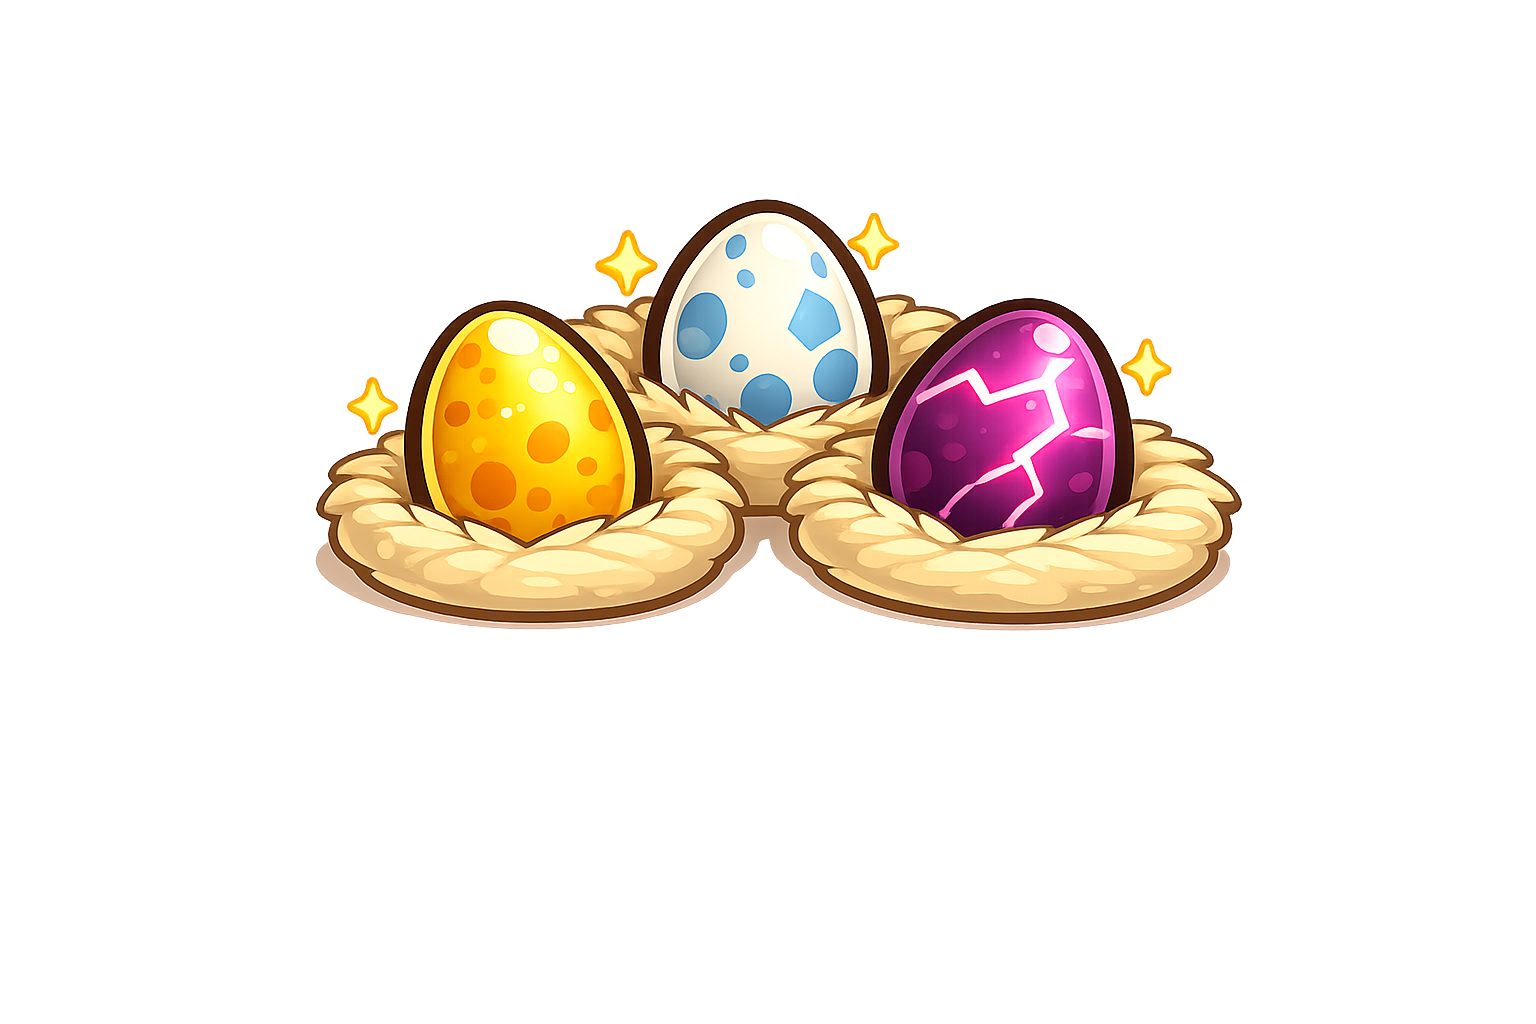
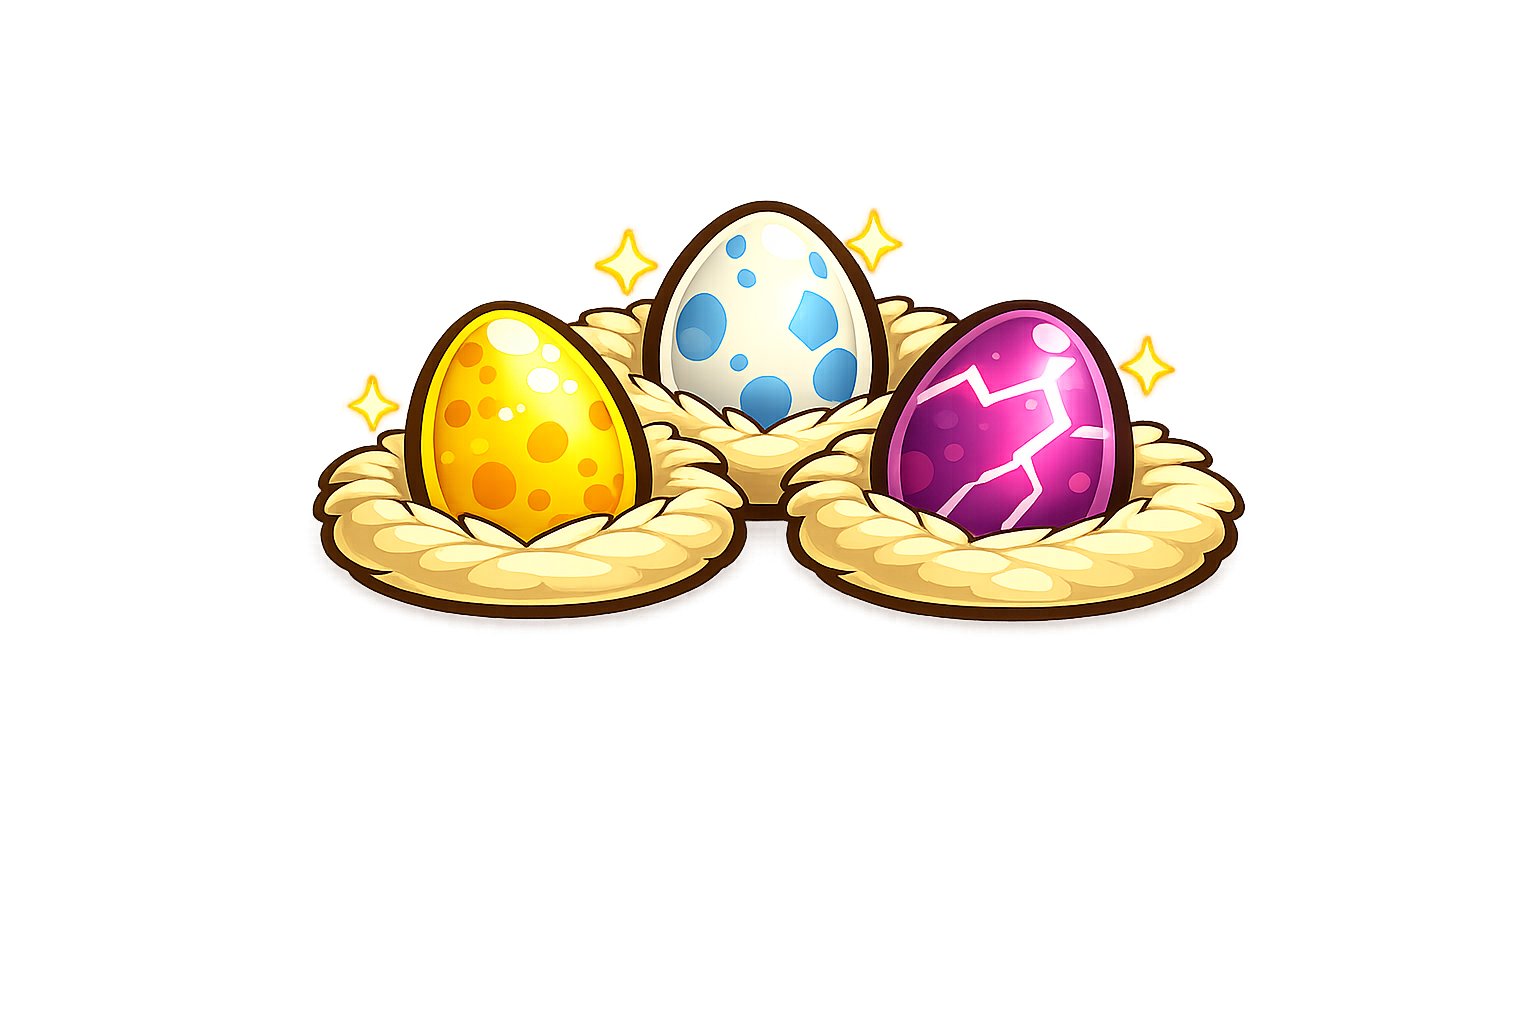
Polish shop/incubation UI, fix egg quality, rename all 17 eggs
Shop:
- Move refresh timer above Refresh button with proper spacing
- Add hint text below tabs for both Pets and Eggs tabs
- Increase egg card images by 20% (72→86px shop, 58→70px popup)

Incubation:
- Increase egg images in nest slots by 12% (120→135px)
- Move hint text from bottom to below header (matching shop layout)
- Fix formatTime showing hardcoded :00 seconds for hour+ durations
- Replace incubation button icon on main screen

Daily Bonus:
- Move hint text between progress bar and card grid
- Move timer above Claim button with proper spacing

Egg quality:
- Pre-downscale all 17 egg textures to 170px (egg_N_sm) in BootScene
  for crisp rendering in shop, nests, popup, progression, level-up
- Keep original 1024px (egg_N) for roll and hatch animations at 296px

Egg names (all 17 tiers renamed):
- 1-5: White, Green, Blue, Red, Purple (by egg color)
- 6-11: Frosty, Forest, Dragon, Sandy, Pharaoh, Sheriff (by location)
- 12-17: Pirate, Ice, Fire, Space, Lunar, Toxic (by theme)

Changed region(s): [[0.1875, 0.1875, 0.8125, 0.625]]

diff --git a/src/data/locales/ru.ts b/src/data/locales/ru.ts
@@ -66,23 +66,23 @@ export const ru: Record<string, string> = {
     'all_pets': 'Все питомцы',
 
     // Egg Tiers
-    'egg_tier_1': 'Луговое яйцо',
-    'egg_tier_2': 'Пятнистое яйцо',
-    'egg_tier_3': 'Морозное яйцо',
-    'egg_tier_4': 'Пламенное яйцо',
-    'egg_tier_5': 'Золотое яйцо',
-    'egg_tier_6': 'Нефритовое яйцо',
-    'egg_tier_7': 'Сапфировое яйцо',
-    'egg_tier_8': 'Рубиновое яйцо',
-    'egg_tier_9': 'Янтарное яйцо',
-    'egg_tier_10': 'Сияющее яйцо',
-    'egg_tier_11': 'Вулканическое яйцо',
-    'egg_tier_12': 'Тайное яйцо',
-    'egg_tier_13': 'Призрачное яйцо',
-    'egg_tier_14': 'Имперское яйцо',
-    'egg_tier_15': 'Туманное яйцо',
-    'egg_tier_16': 'Звёздное яйцо',
-    'egg_tier_17': 'Небесное яйцо',
+    'egg_tier_1': 'Белое яйцо',
+    'egg_tier_2': 'Зелёное яйцо',
+    'egg_tier_3': 'Синее яйцо',
+    'egg_tier_4': 'Красное яйцо',
+    'egg_tier_5': 'Фиолетовое яйцо',
+    'egg_tier_6': 'Морозное яйцо',
+    'egg_tier_7': 'Лесное яйцо',
+    'egg_tier_8': 'Яйцо дракона',
+    'egg_tier_9': 'Песчаное яйцо',
+    'egg_tier_10': 'Яйцо фараона',
+    'egg_tier_11': 'Яйцо шерифа',
+    'egg_tier_12': 'Пиратское яйцо',
+    'egg_tier_13': 'Ледяное яйцо',
+    'egg_tier_14': 'Огненное яйцо',
+    'egg_tier_15': 'Космическое яйцо',
+    'egg_tier_16': 'Лунное яйцо',
+    'egg_tier_17': 'Ядовитое яйцо',
 
     // Backgrounds
     'bg_meadow': 'Луг',
@@ -215,6 +215,7 @@ export const ru: Record<string, string> = {
     'nests_no_eggs': 'Нет яиц! Загляни в магазин.',
     'nests_buy_eggs': 'Купить яйца',
     'nests_hint': 'Инкубируй яйца, чтобы получить редких питомцев!',
+    'shop_pets_hint': 'В Магазине можно купить питомца, которого у вас точно нет!',
     'shop_eggs_hint': 'Яйца для использования в Инкубации',
 
     // Buff descriptions

diff --git a/src/scenes/ShopScene.ts b/src/scenes/ShopScene.ts
@@ -30,7 +30,7 @@ export class ShopScene extends Scene {
     private petsTabBtn!: Button;
     private eggsTabBtn!: Button;
     private eggTabResult: EggTabResult | null = null;
-    private eggsHint!: GameObjects.Text;
+    private hintText!: GameObjects.Text;
 
     constructor() { super('ShopScene'); }
 
@@ -49,9 +49,9 @@ export class ShopScene extends Scene {
         }).setOrigin(0.5).setVisible(false);
         this.refreshBtn = new Button(this, GAME_WIDTH / 2, GAME_HEIGHT - 37, 222, 52,
             `\u25B6 ${t('shop_refresh')}`, 0x7b42c9, () => this.onRefresh());
-        this.eggsHint = this.add.text(GAME_WIDTH / 2, GAME_HEIGHT - 25, t('shop_eggs_hint'), {
+        this.hintText = this.add.text(GAME_WIDTH / 2, TIMER_Y, '', {
             fontFamily: UI.FONT_BODY, fontSize: '14px', color: '#666688',
-        }).setOrigin(0.5).setVisible(false);
+        }).setOrigin(0.5);
         this.switchTab(this.activeTab);
     }
 
@@ -88,8 +88,8 @@ export class ShopScene extends Scene {
     }
 
     private createTimer(): void {
-        this.timerText = this.add.text(GAME_WIDTH / 2, TIMER_Y, '', {
-            fontFamily: UI.FONT_BODY, fontSize: '16px', color: '#aaaaaa',
+        this.timerText = this.add.text(GAME_WIDTH / 2, GAME_HEIGHT - 80, '', {
+            fontFamily: UI.FONT_BODY, fontSize: '14px', color: '#aaaaaa',
         }).setOrigin(0.5);
         this.updateTimerText();
     }
@@ -115,7 +115,7 @@ export class ShopScene extends Scene {
         const showPets = tab === 'pets';
         this.timerText.setVisible(showPets);
         this.refreshBtn.setVisible(showPets);
-        this.eggsHint.setVisible(!showPets);
+        this.hintText.setText(showPets ? t('shop_pets_hint') : t('shop_eggs_hint'));
         this.emptyText.setVisible(false);
 
         this.cardsContainer.removeAll(true);

diff --git a/src/data/locales/en.ts b/src/data/locales/en.ts
@@ -66,23 +66,23 @@ export const en: Record<string, string> = {
     'all_pets': 'All Pets',
 
     // Egg Tiers
-    'egg_tier_1': 'Meadow Egg',
-    'egg_tier_2': 'Spotted Egg',
-    'egg_tier_3': 'Frosted Egg',
-    'egg_tier_4': 'Ember Egg',
-    'egg_tier_5': 'Golden Egg',
-    'egg_tier_6': 'Jade Egg',
-    'egg_tier_7': 'Sapphire Egg',
-    'egg_tier_8': 'Ruby Egg',
-    'egg_tier_9': 'Amber Egg',
-    'egg_tier_10': 'Radiant Egg',
-    'egg_tier_11': 'Volcanic Egg',
-    'egg_tier_12': 'Arcane Egg',
-    'egg_tier_13': 'Phantom Egg',
-    'egg_tier_14': 'Imperial Egg',
-    'egg_tier_15': 'Nebula Egg',
-    'egg_tier_16': 'Stellar Egg',
-    'egg_tier_17': 'Celestial Egg',
+    'egg_tier_1': 'White Egg',
+    'egg_tier_2': 'Green Egg',
+    'egg_tier_3': 'Blue Egg',
+    'egg_tier_4': 'Red Egg',
+    'egg_tier_5': 'Purple Egg',
+    'egg_tier_6': 'Frosty Egg',
+    'egg_tier_7': 'Forest Egg',
+    'egg_tier_8': 'Dragon Egg',
+    'egg_tier_9': 'Sandy Egg',
+    'egg_tier_10': 'Pharaoh Egg',
+    'egg_tier_11': 'Sheriff Egg',
+    'egg_tier_12': 'Pirate Egg',
+    'egg_tier_13': 'Ice Egg',
+    'egg_tier_14': 'Fire Egg',
+    'egg_tier_15': 'Space Egg',
+    'egg_tier_16': 'Lunar Egg',
+    'egg_tier_17': 'Toxic Egg',
 
     // Backgrounds
     'bg_meadow': 'Meadow',
@@ -215,6 +215,7 @@ export const en: Record<string, string> = {
     'nests_no_eggs': 'No eggs! Visit the Shop.',
     'nests_buy_eggs': 'Buy Eggs',
     'nests_hint': 'Incubate eggs to hatch rarer pets!',
+    'shop_pets_hint': 'Buy a pet you definitely don\'t have yet!',
     'shop_eggs_hint': 'Eggs for use in Incubation',
 
     // Buff descriptions

diff --git a/src/ui/NestSlotCard.ts b/src/ui/NestSlotCard.ts
@@ -9,7 +9,7 @@ const SLOT_W = 200;
 const SLOT_H = 250;
 const CARD_R = 14;
 const NEST_W = 154;      // 140 * 1.10
-const EGG_SIZE = 120;    // 80 * 1.50
+const EGG_SIZE = 135;    // +12% from 120
 const NEST_Y = 50;       // lower third of card
 const EGG_Y = 15;        // above nest center
 const TIMER_Y = -SLOT_H / 2 + 25;  // top of card
@@ -59,7 +59,7 @@ export function renderIncubatingSlot(
     bg.strokeRoundedRect(-SLOT_W / 2, -SLOT_H / 2, SLOT_W, SLOT_H, CARD_R);
     c.add(bg);
     c.add(scene.add.image(0, NEST_Y, 'ui_nest_mid').setDisplaySize(NEST_W, nestHeight(scene)));
-    if (slot.eggTier) c.add(scene.add.image(0, EGG_Y, `egg_${slot.eggTier}`).setDisplaySize(EGG_SIZE, EGG_SIZE));
+    if (slot.eggTier) c.add(scene.add.image(0, EGG_Y, `egg_${slot.eggTier}_sm`).setDisplaySize(EGG_SIZE, EGG_SIZE));
     const timerText = scene.add.text(0, TIMER_Y,
         formatTime(nests.getTimeRemainingMs(index)), {
             fontFamily: UI.FONT_STROKE, fontSize: '18px', color: '#ffffff',
@@ -96,7 +96,7 @@ export function renderReadySlot(
     const nestImg = scene.add.image(0, NEST_Y, 'ui_nest_mid').setDisplaySize(NEST_W, nestHeight(scene));
     c.add(nestImg);
     if (slot.eggTier) {
-        const eggImg = scene.add.image(0, EGG_Y, `egg_${slot.eggTier}`).setDisplaySize(EGG_SIZE, EGG_SIZE);
+        const eggImg = scene.add.image(0, EGG_Y, `egg_${slot.eggTier}_sm`).setDisplaySize(EGG_SIZE, EGG_SIZE);
         c.add(eggImg);
         scene.tweens.add({
             targets: [nestImg, eggImg], scaleX: '*=1.05', scaleY: '*=1.05',

diff --git a/src/scenes/BootScene.ts b/src/scenes/BootScene.ts
@@ -127,6 +127,22 @@ export class BootScene extends Scene {
             this.textures.addCanvas(pet.imageKey, c);
         }
 
+        // Pre-downscale egg textures (1024px → 170px) for shop/nests/popup
+        // Original stays for CenterStage roll (296px display)
+        const TARGET_EGG = 170;
+        for (let i = 1; i <= TOTAL_EGGS; i++) {
+            const key = `egg_${i}`;
+            const eSrc = this.textures.get(key).getSourceImage() as HTMLImageElement;
+            const eC = document.createElement('canvas');
+            eC.width = TARGET_EGG;
+            eC.height = TARGET_EGG;
+            const eCtx = eC.getContext('2d')!;
+            eCtx.imageSmoothingEnabled = true;
+            eCtx.imageSmoothingQuality = 'high';
+            eCtx.drawImage(eSrc, 0, 0, TARGET_EGG, TARGET_EGG);
+            this.textures.addCanvas(`${key}_sm`, eC);
+        }
+
         // Pre-downscale shop icon for crisp rendering (original 1536x1024, ratio 3:2)
         this.downscaleTexture('ui_shop', 'ui_shop_mid', 370, 247);
 

diff --git a/src/scenes/DailyBonusScene.ts b/src/scenes/DailyBonusScene.ts
@@ -10,8 +10,9 @@ const HEADER_H = 74;
 const TRACK_Y = 110;
 const GRID_TOP = 200;
 const DAY7_H = CARD_H * 2 + CARD_GAP;
-const HINT_Y = GRID_TOP + DAY7_H + 22;
-const CLAIM_Y = HINT_Y + 46;
+const HINT_Y = 174;
+const TIMER_ABOVE_BTN_Y = GRID_TOP + DAY7_H + 30;
+const CLAIM_Y = TIMER_ABOVE_BTN_Y + 42;
 const FREE_CLR = 0x78C828;
 const FREE_DRK = 0x4E8A18;
 
@@ -91,8 +92,8 @@ export class DailyBonusScene extends Scene {
     }
 
     private createTimer(): void {
-        this.timerText = this.add.text(GAME_WIDTH / 2, GAME_HEIGHT - 30, '', {
-            fontFamily: UI.FONT_BODY, fontSize: '16px', color: '#aaaaaa',
+        this.timerText = this.add.text(GAME_WIDTH / 2, TIMER_ABOVE_BTN_Y, '', {
+            fontFamily: UI.FONT_BODY, fontSize: '14px', color: '#aaaaaa',
         }).setOrigin(0.5);
         this.updateTimerText();
     }

diff --git a/src/ui/LevelUpOverlay.ts b/src/ui/LevelUpOverlay.ts
@@ -108,11 +108,11 @@ export class LevelUpOverlay {
 
         // Old egg → arrow → new egg
         const eggY = y + 62;
-        const oldEgg = this.scene.add.image(-99, eggY, data.oldEggKey).setDisplaySize(111, 111);
+        const oldEgg = this.scene.add.image(-99, eggY, `${data.oldEggKey}_sm`).setDisplaySize(111, 111);
         container.add(oldEgg);
         const arrow = this.scene.add.image(0, eggY, 'ui_arrow').setDisplaySize(35, 35).setRotation(-Math.PI / 2);
         container.add(arrow);
-        const newEgg = this.scene.add.image(99, eggY, data.eggKey).setDisplaySize(111, 111);
+        const newEgg = this.scene.add.image(99, eggY, `${data.eggKey}_sm`).setDisplaySize(111, 111);
         container.add(newEgg);
         y = eggY + 72;
 

diff --git a/src/scenes/ProgressionScene.ts b/src/scenes/ProgressionScene.ts
@@ -110,7 +110,7 @@ export class ProgressionScene extends Scene {
         // Icon inside circle — large, fills most of the circle
         if (isEgg && m.eggKey) {
             const eggSize = r * 1.7;
-            const icon = this.add.image(x, TRACK_Y, m.eggKey)
+            const icon = this.add.image(x, TRACK_Y, `${m.eggKey}_sm`)
                 .setDisplaySize(eggSize, eggSize);
             if (!reached) this.applyGrayscale(icon);
             this.trackContainer.add(icon);

diff --git a/src/scenes/NestsScene.ts b/src/scenes/NestsScene.ts
@@ -60,8 +60,8 @@ export class NestsScene extends Scene {
     }
 
     private createHint(): void {
-        this.add.text(GAME_WIDTH / 2, GAME_HEIGHT - 25, t('nests_hint'), {
-            fontFamily: UI.FONT_BODY, fontSize: '14px', color: '#555577',
+        this.add.text(GAME_WIDTH / 2, HEADER_H + 72, t('nests_hint'), {
+            fontFamily: UI.FONT_BODY, fontSize: '14px', color: '#666688',
         }).setOrigin(0.5);
     }
 

diff --git a/src/ui/EggSelectPopup.ts b/src/ui/EggSelectPopup.ts
@@ -109,8 +109,8 @@ export class EggSelectPopup {
         card.add(cardBg);
 
         // Egg image
-        card.add(scene.add.image(0, -CARD_H / 2 + 40, `egg_${egg.tier}`)
-            .setDisplaySize(58, 58));
+        card.add(scene.add.image(0, -CARD_H / 2 + 40, `egg_${egg.tier}_sm`)
+            .setDisplaySize(70, 70));
 
         // Egg name
         const nameKey = getEggNameKey(`egg_${egg.tier}`);

diff --git a/src/ui/ShopEggsTab.ts b/src/ui/ShopEggsTab.ts
@@ -121,7 +121,7 @@ function renderEggCard(
 
     if (unlocked) {
         // Egg image
-        c.add(scene.add.image(0, -CARD_H / 2 + 50, `egg_${tier}`).setDisplaySize(72, 72));
+        c.add(scene.add.image(0, -CARD_H / 2 + 50, `egg_${tier}_sm`).setDisplaySize(86, 86));
 
         // Egg name (can wrap to 2 lines)
         const nameKey = getEggNameKey(`egg_${tier}`);
